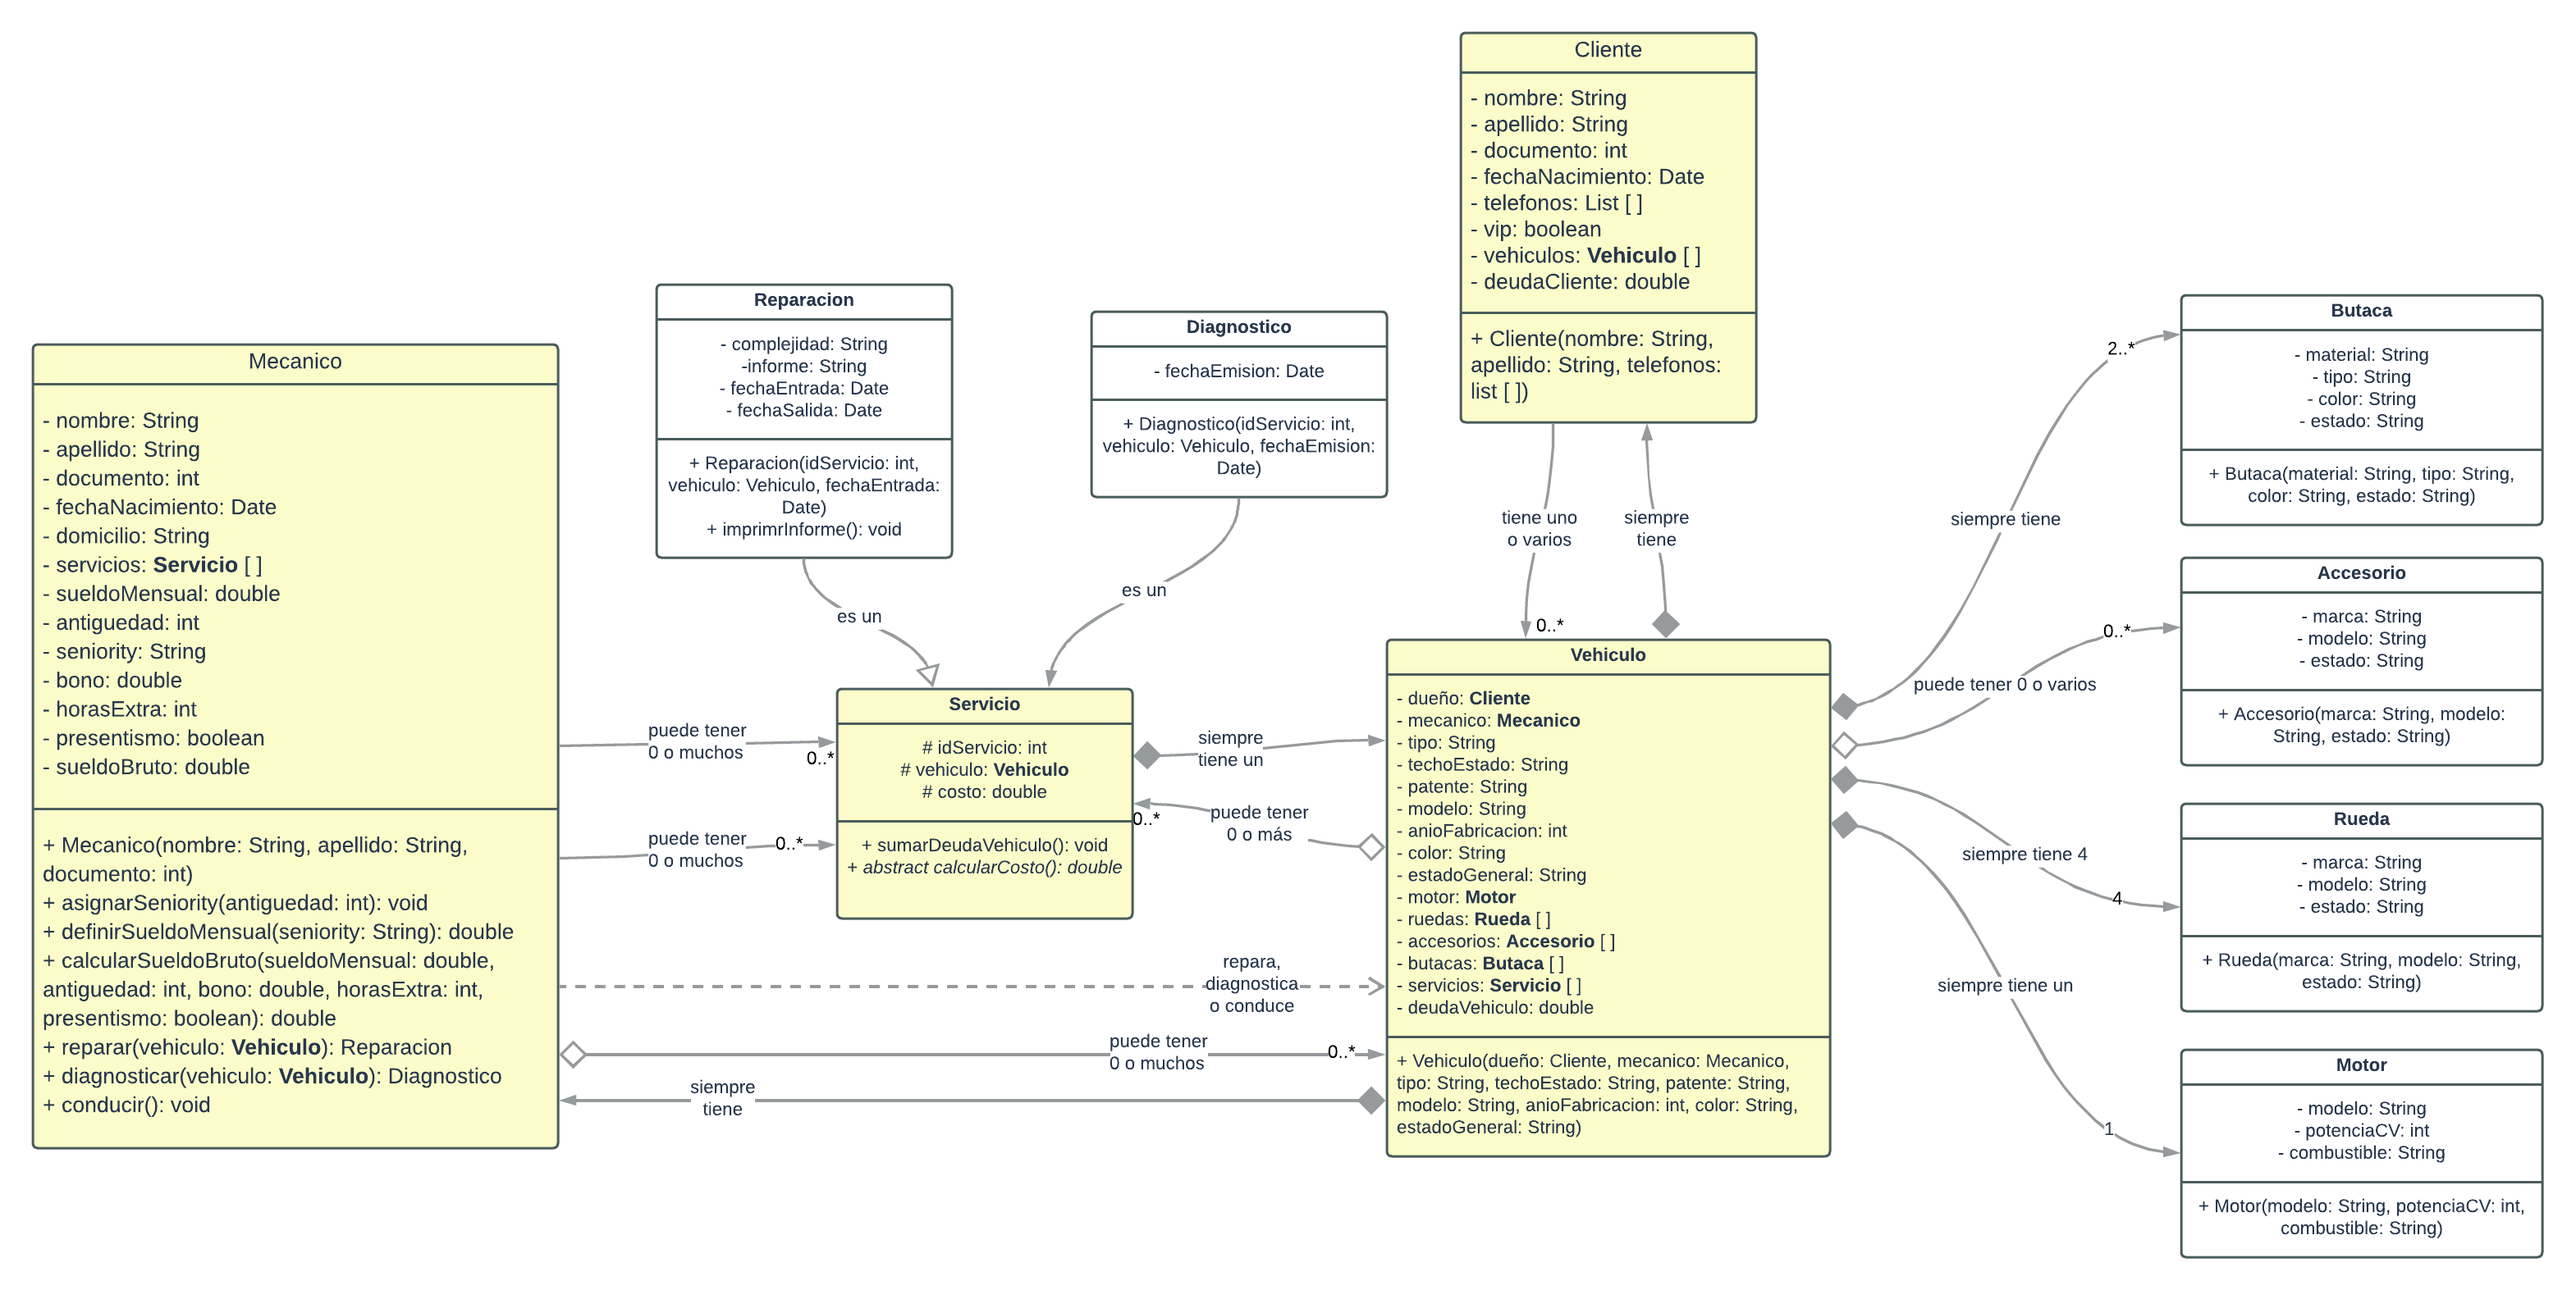
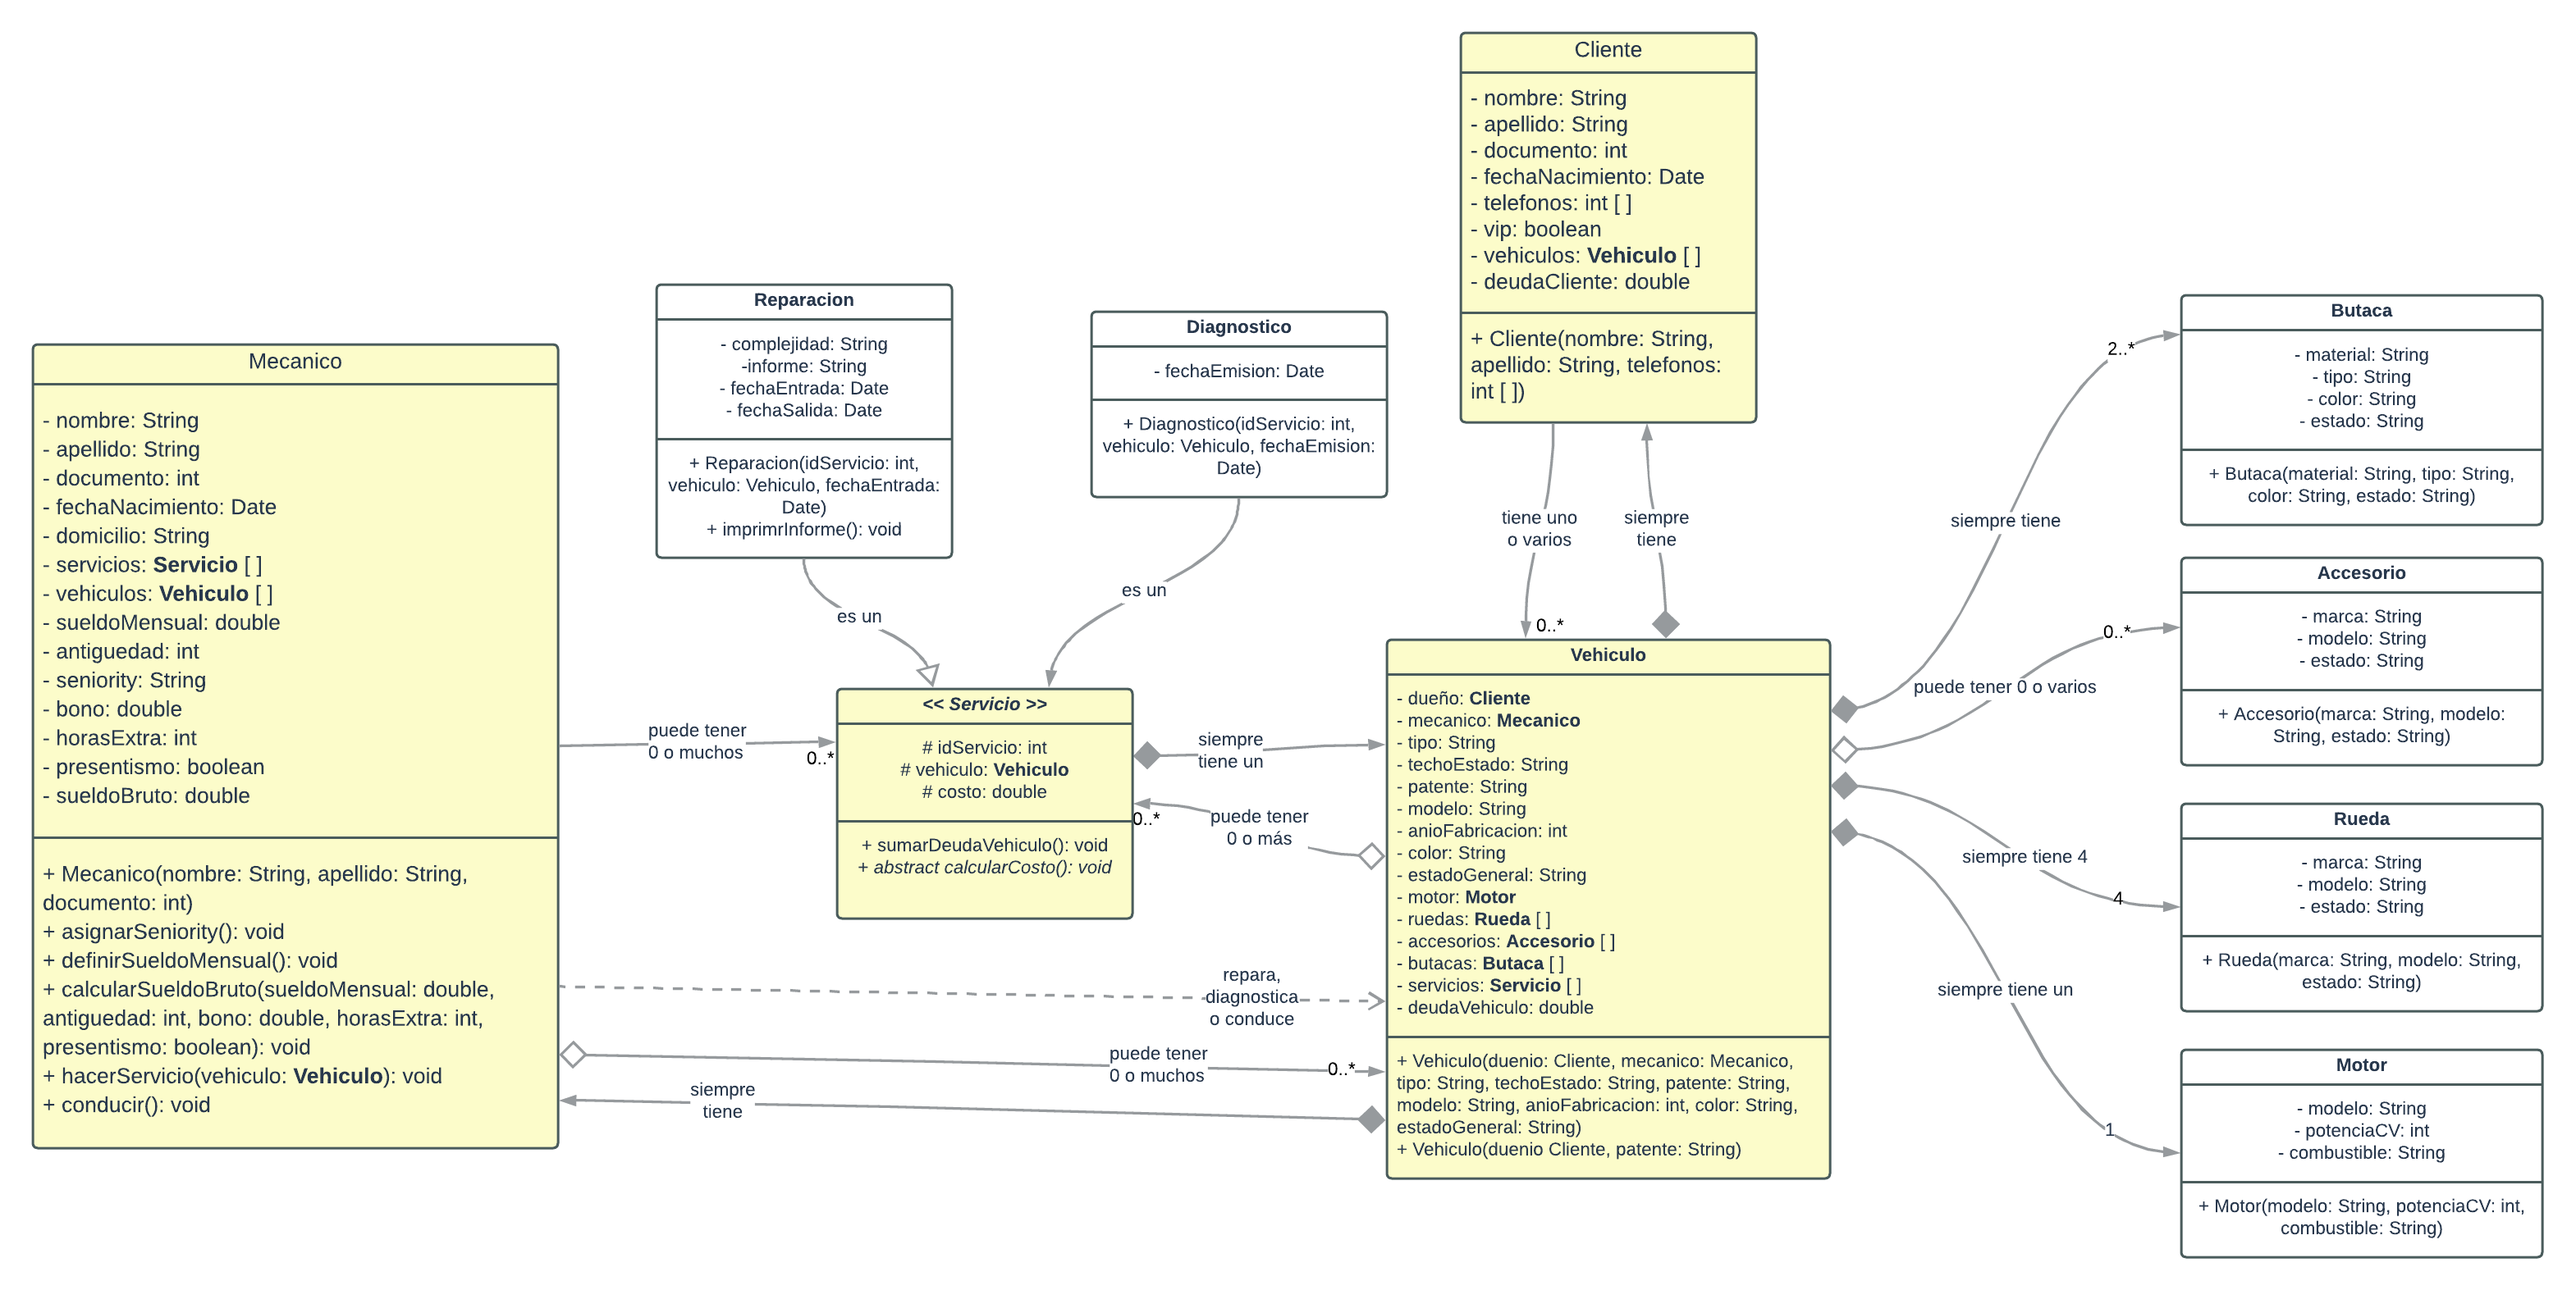
Automatice el setAntiguedad

diff --git a/actividades/src/Picante/Demo.java b/actividades/src/Picante/Demo.java
@@ -5,11 +5,8 @@ public class Demo {
     public static void main(String[] args) {
 
     Mecanico cucu = new Mecanico("Cucu","Arce", 23000000);
-        cucu.setAntiguedad(15);
-        cucu.setSeniority();
-        System.out.println(cucu.getAntiguedad());
+        cucu.setAntiguedad(5);
         System.out.println("Seniority del empleado " + cucu.getApellido() + ": " + cucu.getSeniority());
-        cucu.definirSueldoMensual();
         System.out.println("Sueldo mensual: " + cucu.getSueldoMensual());
 
 

diff --git a/actividades/src/Picante/Mecanico.java b/actividades/src/Picante/Mecanico.java
@@ -84,6 +84,8 @@ public class Mecanico {
     }
     public void setAntiguedad(int antiguedad) {
         this.antiguedad = antiguedad;
+        this.setSeniority();
+        this.definirSueldoMensual();
     }
     public void setHorasExtra(int horasExtra) {
         this.horasExtra = horasExtra;
